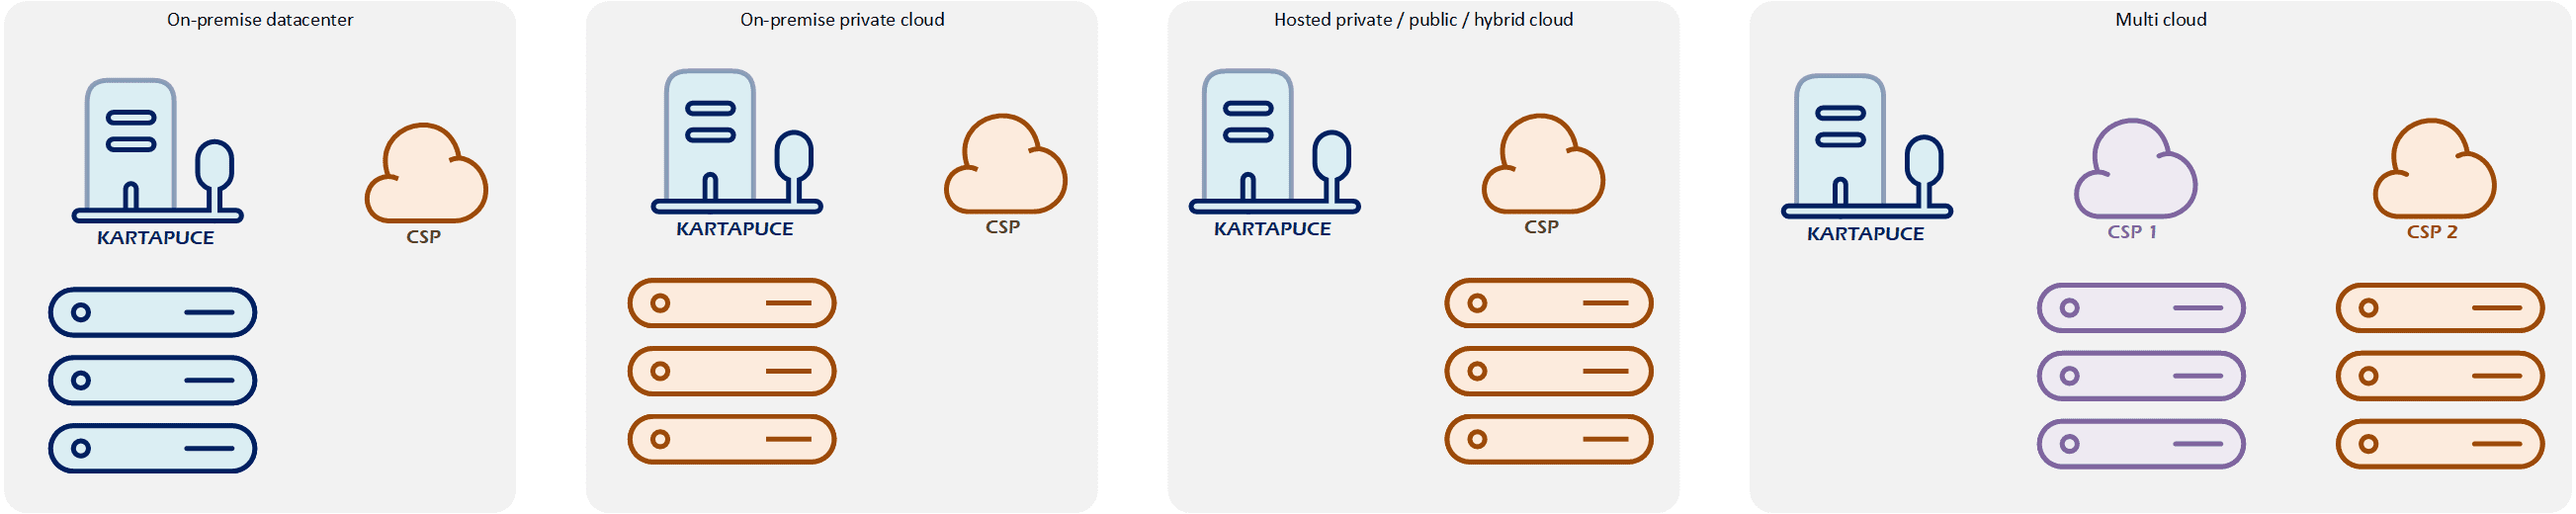
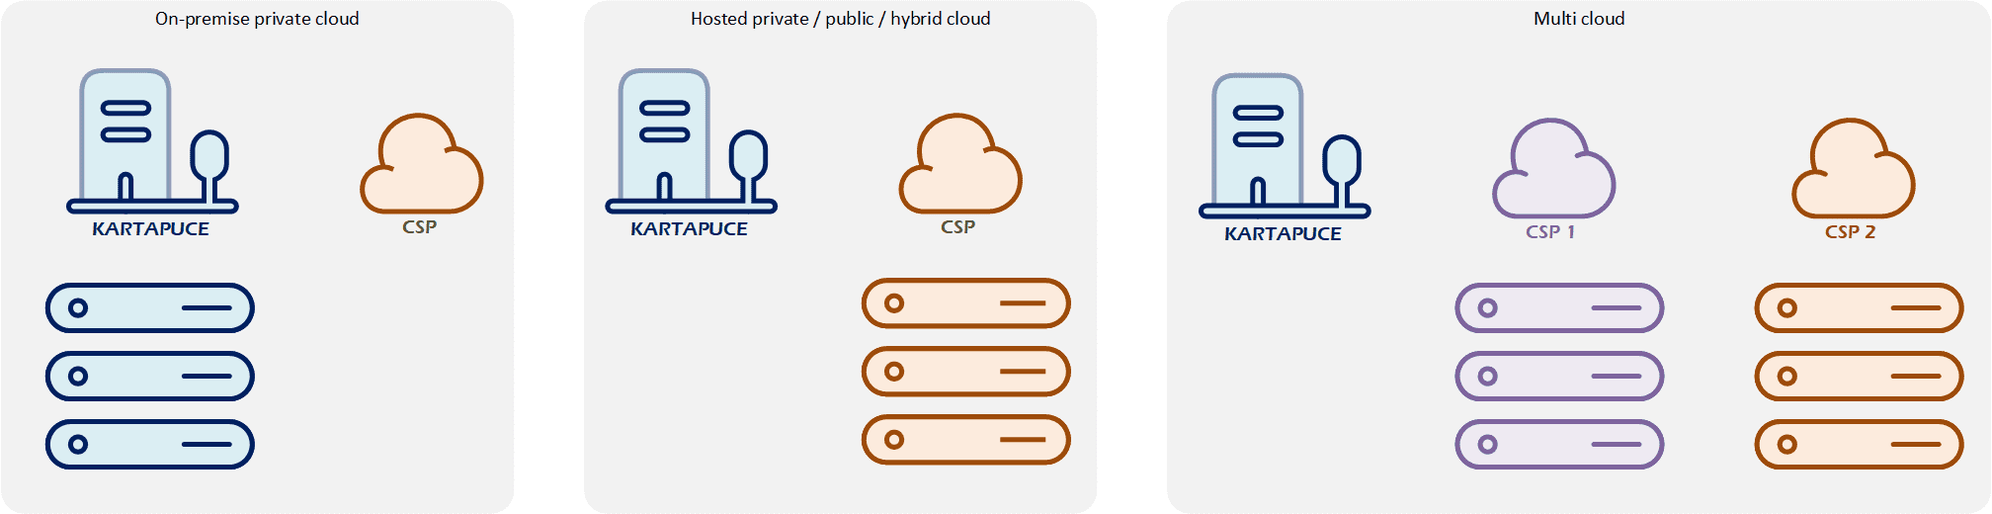
Modify on premise private cloud

diff --git a/_architecture/cloud services.md b/_architecture/cloud services.md
@@ -54,8 +54,7 @@ The first aspect concerns the sharing strategy. In order to provide scalable res
 ### Hosting strategy
 
 The second aspect concerns the hosting strategy.
-- **On-premise datacentre**: Hosting your own datacentre without cloud services. *Sorry, not interested in your cloudy business.* :european_castle:
-- **On-premise private cloud**: Private cloud directly hosted within the customer facility. *I want to keep it home.*
+- **On-premise private cloud**: Private cloud directly hosted and managed within the customer facility. In some way, it is similar to an on-premise traditional datacenter, but it is architected with cloud technologies. *I want to keep it home.* :european_castle:
 - **Hosted cloud**: The most common hosting strategy, where services are directly hosted by the CSP. *I’ll just handle it remotely.*
 - **Multi-cloud**: In order to avoid vendor lock-in, the customer decides to benefit from several CSP services. *I still want it all.* :stuck_out_tongue_winking_eye:
 

diff --git a/_architecture/storage.md b/_architecture/storage.md
@@ -9,16 +9,16 @@ header:
   teaser: /assets/images/storage/backups-small.png
 gallery1:
   - url: /assets/images/storage/technologies.png
-    image_path: assets/images/storage/technologies-small.png
+    image_path: assets/images/storage/technologies.png
 gallery2:
   - url: /assets/images/storage/VM storage.png
-    image_path: assets/images/storage/VM storage-small.png
+    image_path: assets/images/storage/VM storage.png
 gallery3:
   - url: /assets/images/storage/backups.png
-    image_path: assets/images/storage/backups-small.png
+    image_path: assets/images/storage/backups.png
 gallery4:
   - url: /assets/images/storage/encryption.png
-    image_path: assets/images/storage/encryption-small.png
+    image_path: assets/images/storage/encryption.png
 ---
 
 Ransomwares are a major threat for companies. Let’s get prepared before the Splash screen pops up. :stuck_out_tongue:
